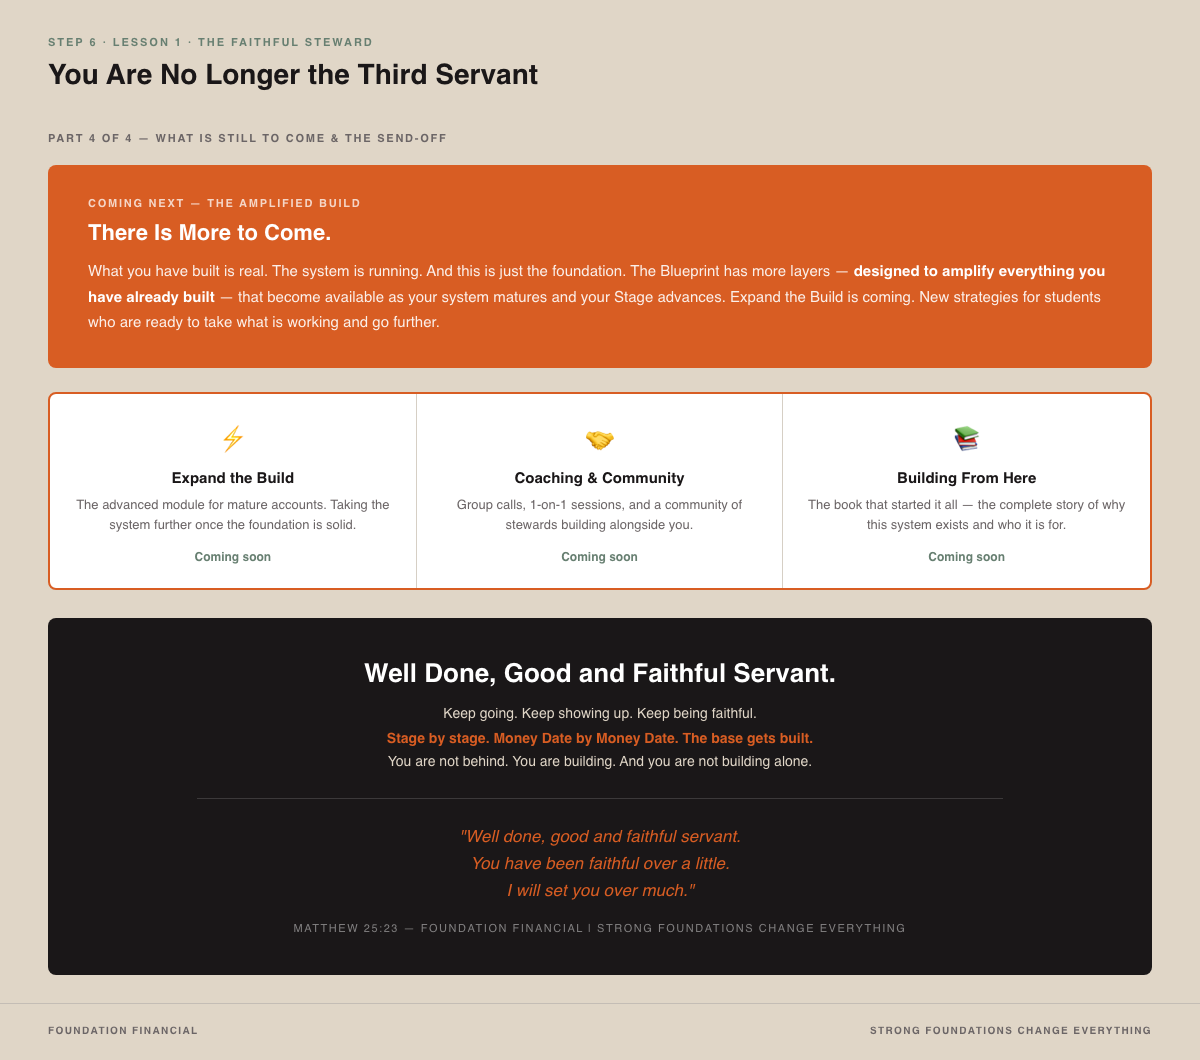
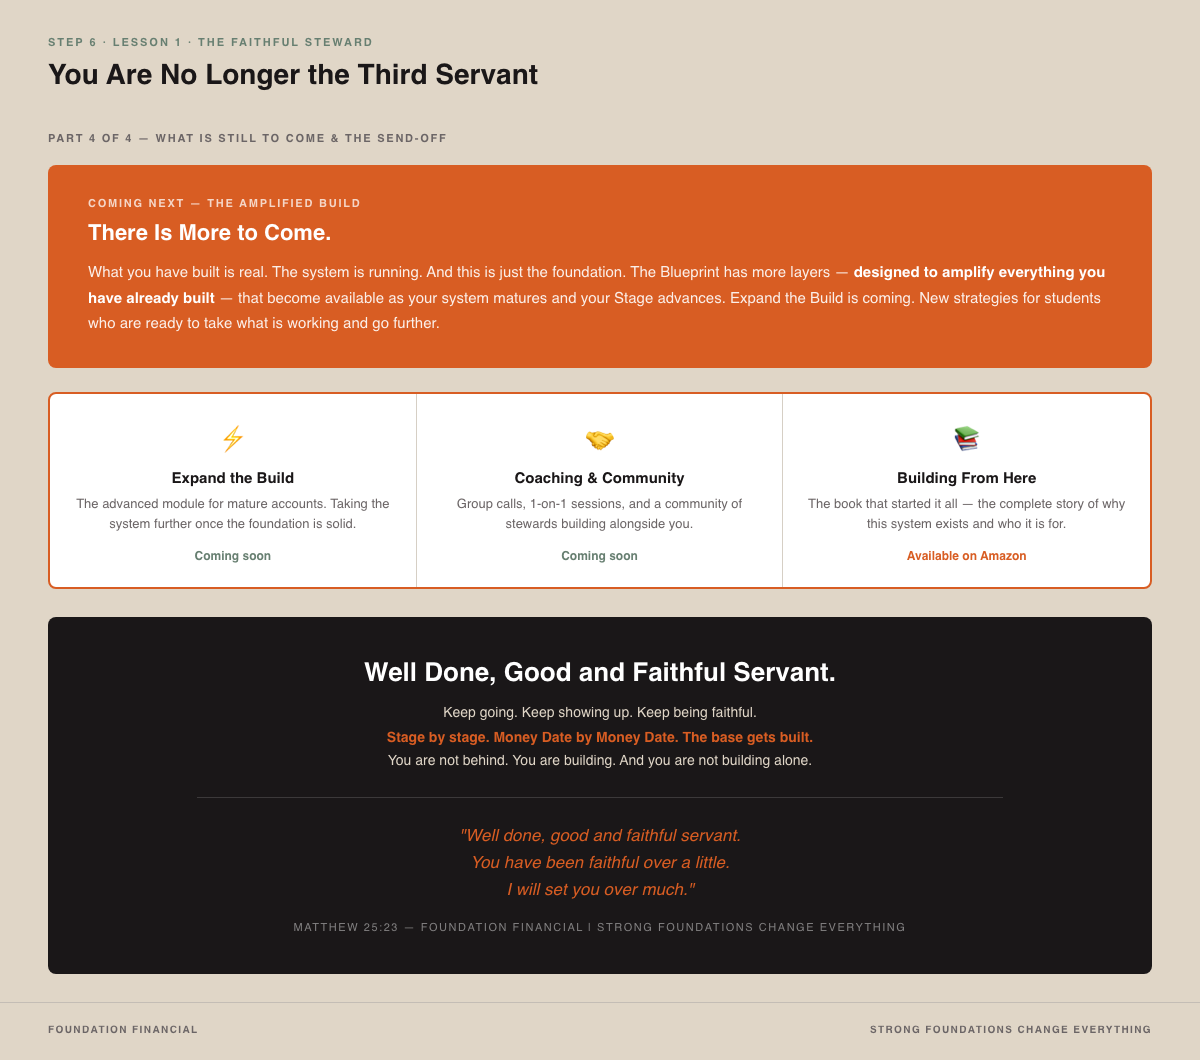
Wire Stripe donation links + Amazon book link, enable Pay It Forward site-wide

diff --git a/pay-it-forward/index.html b/pay-it-forward/index.html
@@ -34,29 +34,32 @@
       <div style="max-width: 640px; margin: 0 auto;">
 
         <p style="font-size: 0.9375rem; line-height: 1.8; color: #6b6566; margin-bottom: 1rem;">Foundation Financial exists on a simple principle — no family is excluded because they cannot pay. The education stays free. Every steward who walks this path keeps that door open for the next family behind them.</p>
-        <p style="font-size: 0.9375rem; line-height: 1.8; color: #6b6566; margin-bottom: 2.5rem;">There are three ways to give back. All are coming soon.</p>
+        <p style="font-size: 0.9375rem; line-height: 1.8; color: #6b6566; margin-bottom: 2.5rem;">There are three ways to give back.</p>
 
         <div style="display: grid; grid-template-columns: repeat(3, 1fr); gap: 1.25rem;">
 
-          <!-- Card 1 -->
+          <!-- Card 1: Support the Mission — LIVE -->
+          <div style="padding: 1.5rem; background: #fff; border: 1px solid #d6cfc5; text-align: center;">
+            <h3 style="font-size: 1rem; font-weight: 700; color: #1A1718; margin: 0 0 0.75rem;">Support the Mission</h3>
+            <p style="font-size: 0.8125rem; line-height: 1.6; color: #6b6566; margin: 0 0 1.25rem;">Help keep Foundation Financial accessible to every family who needs it. No one is turned away. Freely you have received; freely give. — Matthew 10:8</p>
+            <div style="display: flex; flex-direction: column; gap: 0.5rem;">
+              <a href="https://donate.stripe.com/7sY8wR5HMgP9gaD0Gm1oI00" target="_blank" rel="noopener noreferrer" style="display: block; padding: 0.625rem 1rem; background-color: #D85D23; color: #fff; font-size: 0.8125rem; font-weight: 700; text-decoration: none; text-transform: uppercase; letter-spacing: 0.05em; text-align: center;">Give Once</a>
+              <a href="https://buy.stripe.com/8x23cx0nsbuPbUn2Ou1oI01" target="_blank" rel="noopener noreferrer" style="display: block; padding: 0.625rem 1rem; background-color: #fff; color: #1A1718; font-size: 0.8125rem; font-weight: 700; text-decoration: none; text-transform: uppercase; letter-spacing: 0.05em; text-align: center; border: 2px solid #1A1718;">Give Monthly</a>
+            </div>
+          </div>
+
+          <!-- Card 2: Buy the Book — LIVE -->
+          <div style="padding: 1.5rem; background: #fff; border: 1px solid #d6cfc5; text-align: center;">
+            <h3 style="font-size: 1rem; font-weight: 700; color: #1A1718; margin: 0 0 0.75rem;">Buy the Book for Yourself</h3>
+            <p style="font-size: 0.8125rem; line-height: 1.6; color: #6b6566; margin: 0 0 1.25rem;">Building From Here: How to Create Wealth in a System Designed Against You. Paperback available on Amazon.</p>
+            <a href="https://www.amazon.com/Building-Here-Create-Designed-Against/dp/B0GHPGHK72/" target="_blank" rel="noopener noreferrer" style="display: block; padding: 0.625rem 1rem; background-color: #D85D23; color: #fff; font-size: 0.8125rem; font-weight: 700; text-decoration: none; text-transform: uppercase; letter-spacing: 0.05em; text-align: center;">Buy on Amazon</a>
+          </div>
+
+          <!-- Card 3: Gift a Book — Coming Soon -->
           <div style="padding: 1.5rem; background: #fff; border: 1px solid #d6cfc5; text-align: center;">
             <p style="font-size: 0.5625rem; font-weight: 700; text-transform: uppercase; letter-spacing: 0.15em; color: #677F71; margin: 0 0 0.75rem;">Coming Soon</p>
             <h3 style="font-size: 1rem; font-weight: 700; color: #1A1718; margin: 0 0 0.75rem;">Gift a Book to a Family</h3>
-            <p style="font-size: 0.8125rem; line-height: 1.6; color: #6b6566; margin: 0;">Sponsor a copy of Building From Here for a family who needs it. We mail it directly to them on your behalf, with a personal note if you want. Pay what it was worth to you — no minimum, no pressure.</p>
-          </div>
-
-          <!-- Card 2 -->
-          <div style="padding: 1.5rem; background: #fff; border: 1px solid #d6cfc5; text-align: center;">
-            <p style="font-size: 0.5625rem; font-weight: 700; text-transform: uppercase; letter-spacing: 0.15em; color: #677F71; margin: 0 0 0.75rem;">Coming Soon</p>
-            <h3 style="font-size: 1rem; font-weight: 700; color: #1A1718; margin: 0 0 0.75rem;">Support the Mission</h3>
-            <p style="font-size: 0.8125rem; line-height: 1.6; color: #6b6566; margin: 0;">Make a one-time or recurring gift to keep Foundation Financial free and accessible. Every gift helps another family step out of financial stress.</p>
-          </div>
-
-          <!-- Card 3 -->
-          <div style="padding: 1.5rem; background: #fff; border: 1px solid #d6cfc5; text-align: center;">
-            <p style="font-size: 0.5625rem; font-weight: 700; text-transform: uppercase; letter-spacing: 0.15em; color: #677F71; margin: 0 0 0.75rem;">Coming Soon</p>
-            <h3 style="font-size: 1rem; font-weight: 700; color: #1A1718; margin: 0 0 0.75rem;">Buy the Book for Yourself</h3>
-            <p style="font-size: 0.8125rem; line-height: 1.6; color: #6b6566; margin: 0;">Get your own copy of Building From Here: How to Create Wealth in a System Designed Against You.</p>
+            <p style="font-size: 0.8125rem; line-height: 1.6; color: #6b6566; margin: 0;">Gift a copy of Building From Here to a family who needs it. Coming soon.</p>
           </div>
 
         </div>

diff --git a/education/faithful-steward/freely-given-freely-give/index.html b/education/faithful-steward/freely-given-freely-give/index.html
@@ -84,10 +84,8 @@
             <p>What you give puts the book in the next family's hands. Not into a marketing budget. Not into overhead. Into someone's mailbox. Into someone's living room. Into hands that need it — because you cared enough to send it.</p>
             <p>If you cannot give anything right now, that is okay. The more important thing is that you stay in the community. Keep building. When the system is producing more than you need, generosity gets easier. That is the design.</p>
 
-            <div style="text-align: center; margin: 2rem 0; padding: 1.5rem 2rem; background-color: #F5F0E8; border: 1px solid #d6cfc5;">
-              <p style="font-size: 0.5625rem; font-weight: 700; text-transform: uppercase; letter-spacing: 0.15em; color: #677F71; margin: 0 0 0.5rem;">Coming Soon</p>
-              <p style="font-size: 1rem; font-weight: 700; color: #6b6566; margin: 0 0 0.25rem;">Pay It Forward — Gift the Book</p>
-              <p style="font-size: 0.75rem; color: #6b6566; margin: 0;">Payment setup in progress.</p>
+            <div style="text-align: center; margin: 2rem 0;">
+              <a href="/pay-it-forward/" class="btn btn-primary" style="font-size: 1rem; padding: 1rem 2.5rem; display: inline-block;">Pay It Forward</a>
             </div>
 
             <h3>Write Three Names</h3>

diff --git a/quickstart/index.html b/quickstart/index.html
@@ -557,10 +557,7 @@
         <p style="font-size: 0.9375rem; line-height: 1.8; color: #6b6566; margin-bottom: 1rem;">But this only keeps happening if some stewards give back. Every gift keeps another family from being turned away. Every book sent is sent because someone else cared enough to cover it.</p>
         <p style="font-size: 0.9375rem; line-height: 1.8; color: #6b6566; margin-bottom: 2rem;">If this changed how you think about money — and you are in a position to give — consider it. Any amount helps. Nothing is expected.</p>
 
-        <div style="display: inline-block; padding: 1.25rem 2.5rem; background-color: #F5F0E8; border: 1px solid #d6cfc5;">
-          <p style="font-size: 0.5625rem; font-weight: 700; text-transform: uppercase; letter-spacing: 0.15em; color: #677F71; margin: 0 0 0.5rem;">Coming Soon</p>
-          <p style="font-size: 1rem; font-weight: 700; color: #6b6566; margin: 0;">Support Foundation Financial</p>
-        </div>
+        <a href="/pay-it-forward/" class="btn btn-primary" style="font-size: 1rem; padding: 1rem 2.5rem; display: inline-block; text-decoration: none;">Pay It Forward</a>
 
         <blockquote style="border-left: 4px solid #D85D23; padding: 1rem 1.5rem; background-color: #fff; margin: 2rem auto; max-width: 400px; text-align: left; font-style: italic; color: #1A1718; font-size: 0.9375rem; line-height: 1.7;">"Freely you have received; freely give." — Matthew 10:8</blockquote>
       </div>